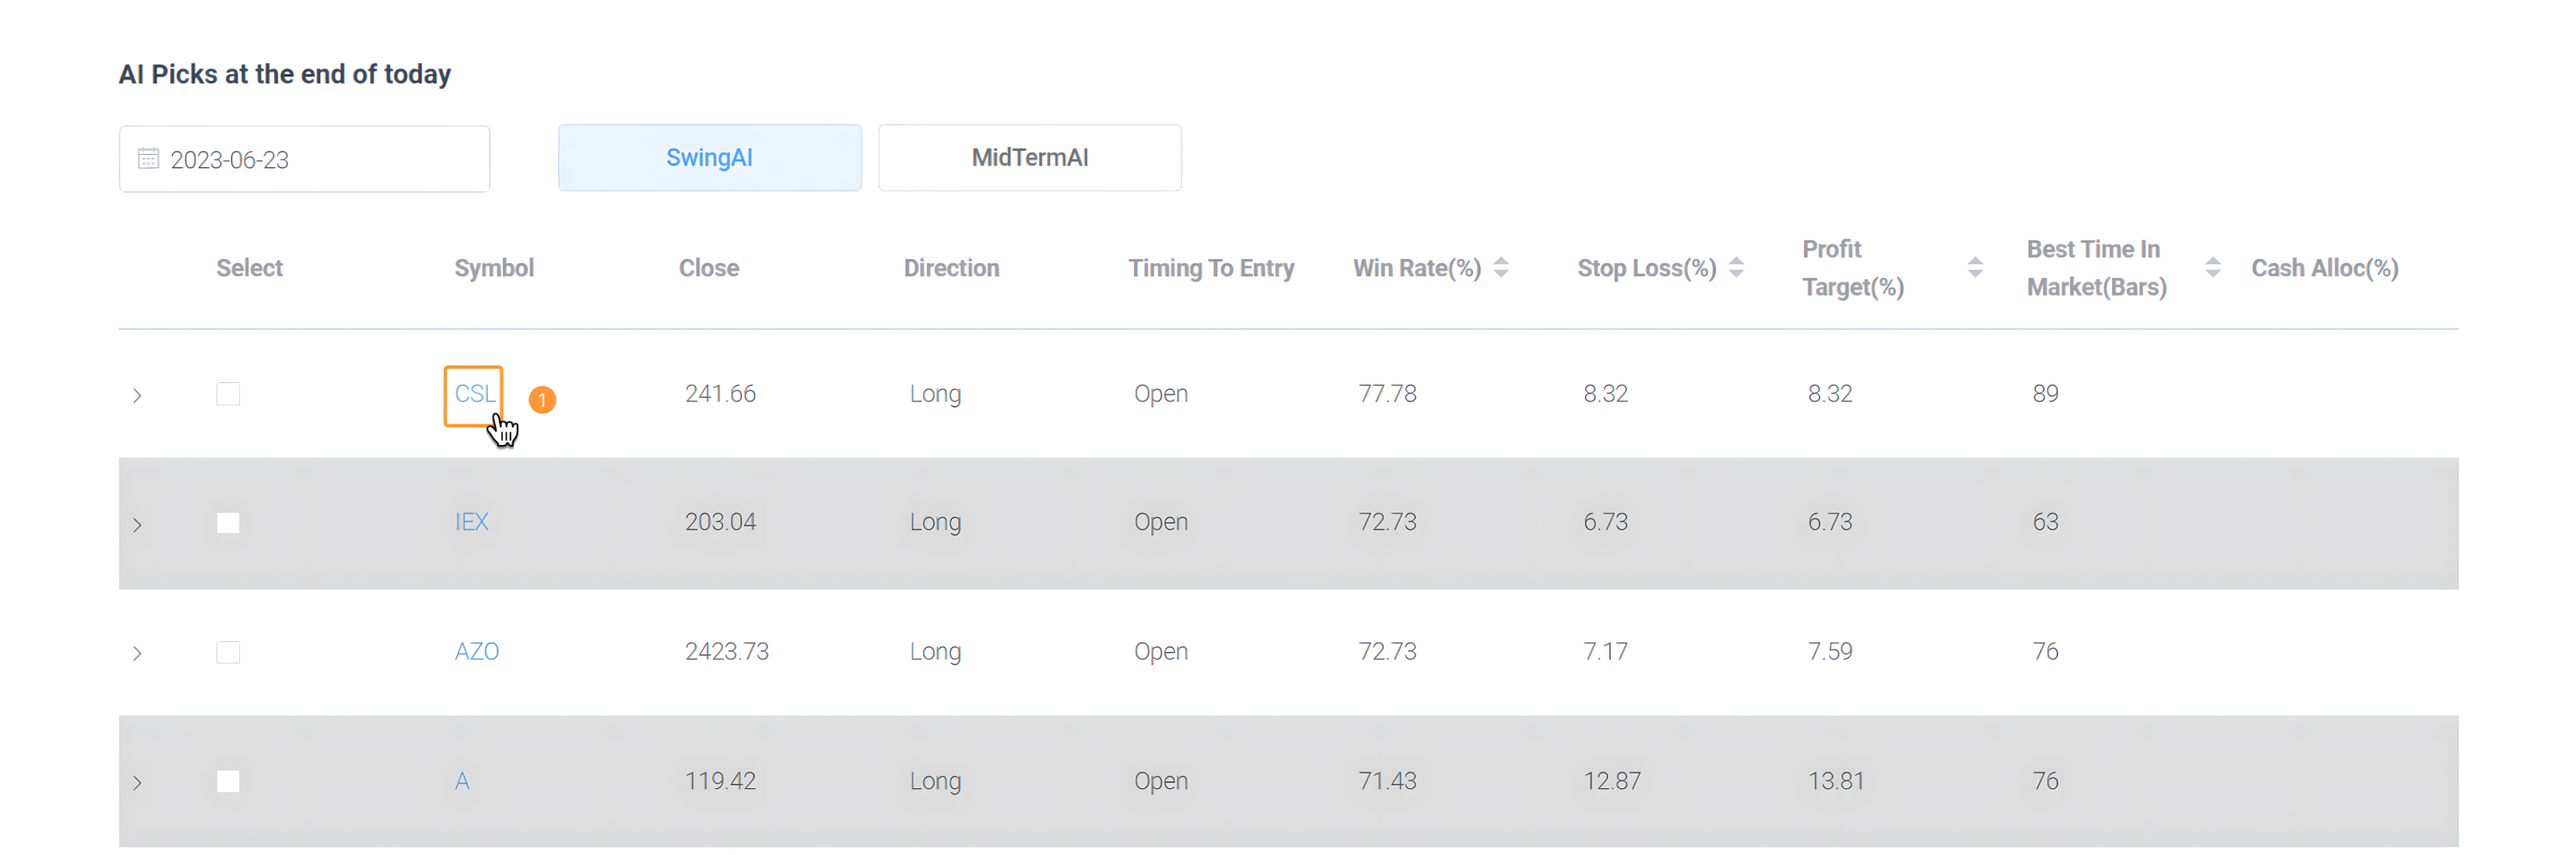
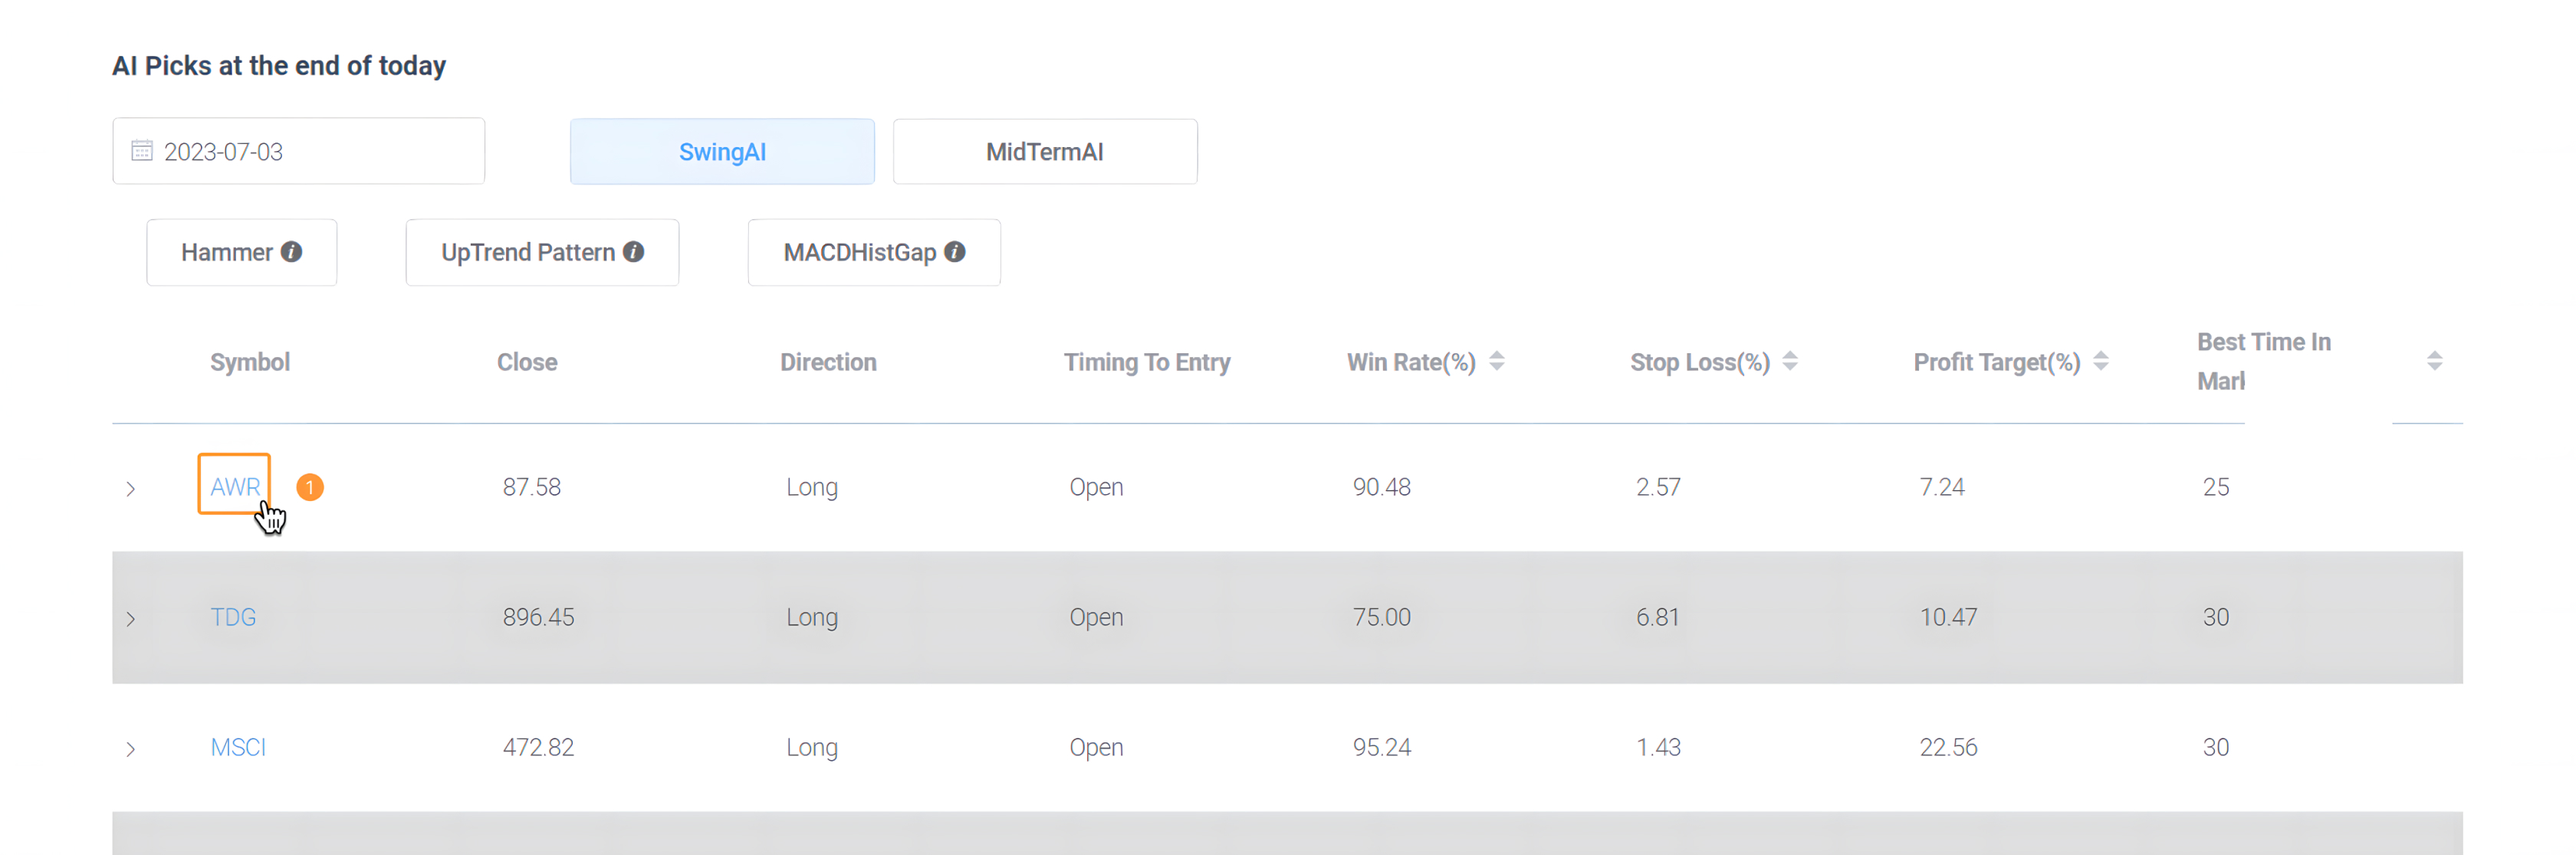
更新 AI Scanner 教程并注释掉 run all backtest 按钮

diff --git a/src/components/Menu/components/Content.vue b/src/components/Menu/components/Content.vue
@@ -1394,8 +1394,16 @@
 				<el-image
 					style="width: 100%; height: 50%"
 					class="image-border"
-					:src="pathai3"
-					:preview-src-list="pathai3List"
+					:src="pathai311"
+					:preview-src-list="pathai311List"
+					fit="fill"
+					lazy
+				></el-image>
+				<el-image
+					style="width: 100%; height: 50%"
+					class="image-border"
+					:src="pathai312"
+					:preview-src-list="pathai311List"
 					fit="fill"
 					lazy
 				></el-image>
@@ -1405,8 +1413,8 @@
 				<el-image
 					style="width: 100%; height: 50%"
 					class="image-border"
-					:src="pathai3"
-					:preview-src-list="pathai3List"
+					:src="pathai32"
+					:preview-src-list="pathai32List"
 					fit="fill"
 					lazy
 				></el-image>
@@ -1416,8 +1424,8 @@
 				<el-image
 					style="width: 100%; height: 50%"
 					class="image-border"
-					:src="pathai3"
-					:preview-src-list="pathai3List"
+					:src="pathai33"
+					:preview-src-list="pathai33List"
 					fit="fill"
 					lazy
 				></el-image>
@@ -1427,9 +1435,25 @@
 					On the AI Scanner page, you will see a stock list that contains information about multiple stocks.
 					Each column of the stock list has a header, including Win Rate(%), Stop Loss(%), Profit Target(%), and Best Time In Market(Bars).
 				</p>
+				<el-image
+					style="width: 100%; height: 50%"
+					class="image-border"
+					:src="pathai34"
+					:preview-src-list="pathai35List"
+					fit="fill"
+					lazy
+				></el-image>
 				<p>
 					Next to each header, there is a sorting icon. Clicking the sorting icon allows you to sort the list in ascending or descending order based on the corresponding column. By default, the list is not sorted.
 				</p>
+				<el-image
+					style="width: 100%; height: 50%"
+					class="image-border"
+					:src="pathai35"
+					:preview-src-list="pathai35List"
+					fit="fill"
+					lazy
+				></el-image>
 				<p>
 					You can select the column you want to sort based on your requirements. Click the sorting icon next to the respective header to sort the list. Clicking the icon once will sort the list in ascending order for that column, and clicking it again will sort the list in descending order.
 					You can sort the list based on different columns such as Win Rate(%), Stop Loss(%), Profit Target(%), or Best Time In Market(Bars). The stock list will be sorted according to the selected sorting criteria. The sorted list will display the corresponding stock information, making it easier for you to analyze and compare data for different stocks.
@@ -1683,7 +1707,13 @@ import path832 from "../img/9.3.2.jpg";
 import path833 from "../img/9.3.3.jpg";
 import pathai1 from "../img/ai1.jpg";
 import pathai2 from "../img/ai2.jpg";
-import pathai3 from "../img/ai3.jpg";
+// import pathai3 from "../img/ai3.jpg";
+import pathai311 from "../img/ai3.1.1.jpg";
+import pathai312 from "../img/ai3.1.2.jpg";
+import pathai32 from "../img/ai3.2.jpg";
+import pathai33 from "../img/ai3.3.jpg";
+import pathai34 from "../img/ai3.4.jpg";
+import pathai35 from "../img/ai3.5.jpg";
 import pathai41 from "../img/ai4.1.jpg";
 import pathai42 from "../img/ai4.2.jpg";
 import pathai43 from "../img/ai4.3.jpg";
@@ -1848,8 +1878,18 @@ export default {
       pathai1List: [pathai1],
       pathai2: pathai2,
       pathai2List: [pathai2],
-      pathai3: pathai3,
-      pathai3List: [pathai3],
+      // pathai3: pathai3,
+      // pathai3List: [pathai3],
+			pathai311: pathai311,
+      pathai311List: [pathai311, pathai312],
+			pathai312: pathai312,
+			pathai32: pathai32,
+			pathai32List: [pathai32],
+			pathai33: pathai33,
+			pathai33List: [pathai33],
+			pathai34: pathai34,
+			pathai35: pathai35,
+			pathai35List: [pathai34,pathai35],
       pathai41: pathai41,
       pathai41List: [pathai41],
       pathai42: pathai42,

diff --git a/src/components/BacktestEdge/Favorite.vue b/src/components/BacktestEdge/Favorite.vue
@@ -3,9 +3,9 @@
 	<el-row>
 		<el-col :span="24">
 			<div class="favoriteForm_container">
-				<el-button @click="runAllBacktest" class="fls-btn"
+				<!-- <el-button @click="runAllBacktest" class="fls-btn"
 					>run all backtest</el-button
-				>
+				> -->
 				<el-button @click="_findLastSignal" class="fls-btn"
 					>find last signal</el-button
 				>
